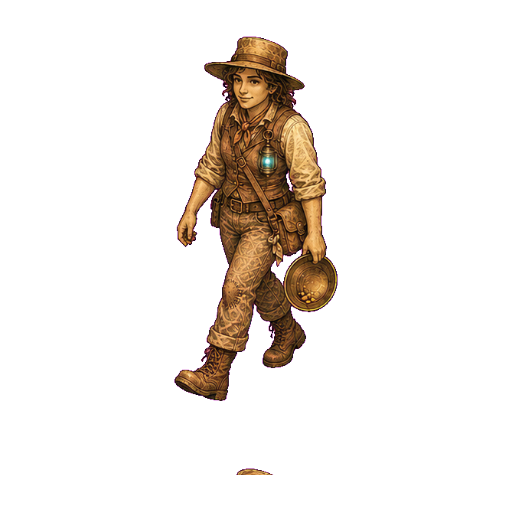
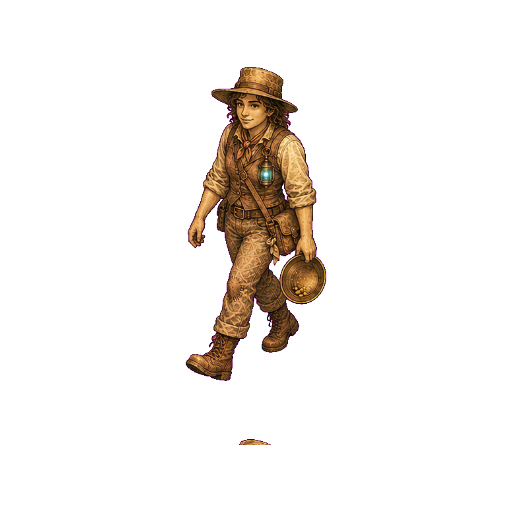
assets(run-001 wiring, s37): hero 8-way fully explicit (sw/e/nw + side idles, mirrors retired); jumper rotation wired dormant in SPEC order — stale cells-5-8 swap directive disproven by pixel inspection; portrait slots dormant; extractor --scale + rotation2 @0.66 cross-sheet height match; vp-02/vp-0

Changed region(s): [[0.3438, 0.0625, 0.6875, 0.7812], [0.4688, 0.9062, 0.5312, 0.9375], [0.4688, 0.8438, 0.5312, 0.875]]

diff --git a/e2e/vp-02-sprite-animation.spec.ts b/e2e/vp-02-sprite-animation.spec.ts
@@ -27,12 +27,12 @@ const rotationDirections = ['s', 'se', 'e', 'ne', 'n', 'nw', 'w', 'sw'] as const
 const rotationCases = [
   ['s', 0, 1, ['char-hero-sheet-rotation-r0c0.png', 'char-hero-sheet-rotation-r0c1.png'], false],
   ['se', 1, 1, ['char-hero-sheet-rotation-r0c2.png', 'char-hero-sheet-rotation-r0c3.png'], false],
-  ['e', 1, 0, ['char-hero-sheet-rotation-r1c0.png', 'char-hero-sheet-rotation-r1c1.png'], true],
+  ['e', 1, 0, ['char-hero-sheet-rotation2-r0c2.png', 'char-hero-sheet-rotation2-r0c3.png'], false],
   ['ne', 1, -1, ['char-hero-sheet-rotation-r1c2.png', 'char-hero-sheet-rotation-r1c3.png'], false],
   ['n', 0, -1, ['char-hero-sheet-rotation-r2c0.png', 'char-hero-sheet-rotation-r2c1.png'], false],
-  ['nw', -1, -1, ['char-hero-sheet-rotation-r1c2.png', 'char-hero-sheet-rotation-r1c3.png'], true],
+  ['nw', -1, -1, ['char-hero-sheet-rotation2-r1c0.png', 'char-hero-sheet-rotation2-r1c1.png'], false],
   ['w', -1, 0, ['char-hero-sheet-rotation-r1c0.png', 'char-hero-sheet-rotation-r1c1.png'], false],
-  ['sw', -1, 1, ['char-hero-sheet-rotation-r0c2.png', 'char-hero-sheet-rotation-r0c3.png'], true],
+  ['sw', -1, 1, ['char-hero-sheet-rotation2-r0c0.png', 'char-hero-sheet-rotation2-r0c1.png'], false],
 ] as const;
 
 function collectErrors(page: Page): ErrorBucket {
@@ -174,31 +174,35 @@ async function canvasCaptureAtHeroFrame(page: Page, direction: string, frameKey:
   };
 }
 
-function heroHorizontalAsymmetry(png: PNG): number {
+/**
+ * s37: mean abs RGB difference inside the hero crop window (window constants
+ * inherited from the retired heroHorizontalAsymmetry), optionally flipping b
+ * horizontally. Art-agnostic
+ * replacement for the flip-specific signed-asymmetry delta, which drowned in
+ * noise at the 390px viewport once east stopped being literal flipped-west
+ * pixels (explicit rotation2 art). Same-size captures only.
+ */
+function heroCropDifference(a: PNG, b: PNG, flipB = false): number {
   const crop = {
-    x: Math.round(png.width * 0.38),
-    y: Math.round(png.height * 0.52),
-    w: Math.round(png.width * 0.24),
-    h: Math.round(png.height * 0.2),
+    x: Math.round(a.width * 0.38),
+    y: Math.round(a.height * 0.52),
+    w: Math.round(a.width * 0.24),
+    h: Math.round(a.height * 0.2),
   };
-  let left = 0;
-  let right = 0;
-  const midX = crop.x + crop.w / 2;
+  let sum = 0;
+  let count = 0;
   for (let y = crop.y; y < crop.y + crop.h; y += 1) {
     for (let x = crop.x; x < crop.x + crop.w; x += 1) {
-      const index = (y * png.width + x) * 4;
-      const r = png.data[index] ?? 0;
-      const g = png.data[index + 1] ?? 0;
-      const b = png.data[index + 2] ?? 0;
-      const luma = 0.299 * r + 0.587 * g + 0.114 * b;
-      const saturation = Math.max(r, g, b) - Math.min(r, g, b);
-      const weight = Math.max(0, 150 - luma) + Math.max(0, saturation - 25) * 0.5;
-      if (weight <= 20) continue;
-      if (x < midX) left += weight;
-      else right += weight;
+      const ia = (y * a.width + x) * 4;
+      const bx = flipB ? crop.x + (crop.w - 1 - (x - crop.x)) : x;
+      const ib = (y * b.width + bx) * 4;
+      for (let c = 0; c < 3; c += 1) {
+        sum += Math.abs((a.data[ia + c] ?? 0) - (b.data[ib + c] ?? 0));
+        count += 1;
+      }
     }
   }
-  return (right - left) / Math.max(1, right + left);
+  return sum / Math.max(1, count) / 255;
 }
 
 async function trackHeroDirections(page: Page): Promise<void> {
@@ -509,7 +513,13 @@ test('hero walk frameKey alternates while each 8-way heading is held', async ({ 
   expect(errors.pageErrors).toEqual([]);
 });
 
-test('east heading uses west files with mirrored pixels', async ({ page }) => {
+// s37 run-001 rewiring: e/sw/nw are EXPLICIT rotation2 cells now (no hero mirrors).
+// This test used to prove the flipX pipeline by comparing mirrored-east against west
+// pixels. It now guards the inverse regression: east must render its OWN right-facing
+// art, unmirrored, and remain pixel-distinguishable from west. COVERAGE GAP (logged
+// reviews/run-001-contract-wiring.md): mirroredRuntimeFrame/flipX has no live consumer
+// until M2-04 activates jumper sw/nw mirrors — mirrored-pixel coverage returns there.
+test('east heading uses explicit rotation2 files with unmirrored pixels', async ({ page }) => {
   const errors = await openGame(page, 'vp-02-mirror-pixels');
   for (let attempt = 0; attempt < 2; attempt += 1) {
     await page.evaluate(() => {
@@ -527,7 +537,7 @@ test('east heading uses west files with mirrored pixels', async ({ page }) => {
     await page.evaluate(() => window.__GR_TEST__?.teleport(0, 0));
     await moveStick(page, 1, 0);
     await waitForHeroDirection(page, 'e', 2_000);
-    const east = await canvasCaptureAtHeroFrame(page, 'e', 'char-hero-sheet-rotation-r1c0.png').catch(() => null);
+    const east = await canvasCaptureAtHeroFrame(page, 'e', 'char-hero-sheet-rotation2-r0c2.png').catch(() => null);
     await releaseStick(page);
 
     if (attempt === 0 && (!west || !east)) {
@@ -538,9 +548,16 @@ test('east heading uses west files with mirrored pixels', async ({ page }) => {
     expect(east).not.toBeNull();
     expect(west!.snapshot.frameKey).toBe('char-hero-sheet-rotation-r1c0.png');
     expect(west!.snapshot.mirrored).toBe(false);
-    expect(east!.snapshot.frameKey).toBe('char-hero-sheet-rotation-r1c0.png');
-    expect(east!.snapshot.mirrored).toBe(true);
-    expect(heroHorizontalAsymmetry(east!.png) - heroHorizontalAsymmetry(west!.png)).toBeGreaterThan(0.004);
+    expect(east!.snapshot.frameKey).toBe('char-hero-sheet-rotation2-r0c2.png');
+    expect(east!.snapshot.mirrored).toBe(false);
+    // East is its own drawing now: it must differ from west directly AND from
+    // flipped-west (stale-mirror regression guard). frameKey/mirrored above are the
+    // contract truth; this is the renderer-level backstop.
+    const directDiff = heroCropDifference(east!.png, west!.png);
+    const flippedDiff = heroCropDifference(east!.png, west!.png, true);
+    console.log(`[mirror-pixels] heroCropDifference direct=${directDiff.toFixed(4)} flipped=${flippedDiff.toFixed(4)}`);
+    expect(directDiff).toBeGreaterThan(0.01);
+    expect(flippedDiff).toBeGreaterThan(0.01);
     break;
   }
   expect(errors.consoleErrors).toEqual([]);

diff --git a/e2e/vp-02b-rotation-resolver.spec.ts b/e2e/vp-02b-rotation-resolver.spec.ts
@@ -23,12 +23,12 @@ const shotDir = path.resolve('reviews/shots-008-rotation');
 const directions = [
   ['s', { x: 0, y: 1 }, ['char-hero-sheet-rotation-r0c0.png', 'char-hero-sheet-rotation-r0c1.png'], false],
   ['se', { x: 1, y: 1 }, ['char-hero-sheet-rotation-r0c2.png', 'char-hero-sheet-rotation-r0c3.png'], false],
-  ['e', { x: 1, y: 0 }, ['char-hero-sheet-rotation-r1c0.png', 'char-hero-sheet-rotation-r1c1.png'], true],
+  ['e', { x: 1, y: 0 }, ['char-hero-sheet-rotation2-r0c2.png', 'char-hero-sheet-rotation2-r0c3.png'], false],
   ['ne', { x: 1, y: -1 }, ['char-hero-sheet-rotation-r1c2.png', 'char-hero-sheet-rotation-r1c3.png'], false],
   ['n', { x: 0, y: -1 }, ['char-hero-sheet-rotation-r2c0.png', 'char-hero-sheet-rotation-r2c1.png'], false],
-  ['nw', { x: -1, y: -1 }, ['char-hero-sheet-rotation-r1c2.png', 'char-hero-sheet-rotation-r1c3.png'], true],
+  ['nw', { x: -1, y: -1 }, ['char-hero-sheet-rotation2-r1c0.png', 'char-hero-sheet-rotation2-r1c1.png'], false],
   ['w', { x: -1, y: 0 }, ['char-hero-sheet-rotation-r1c0.png', 'char-hero-sheet-rotation-r1c1.png'], false],
-  ['sw', { x: -1, y: 1 }, ['char-hero-sheet-rotation-r0c2.png', 'char-hero-sheet-rotation-r0c3.png'], true],
+  ['sw', { x: -1, y: 1 }, ['char-hero-sheet-rotation2-r0c0.png', 'char-hero-sheet-rotation2-r0c1.png'], false],
 ] as const;
 
 function collectErrors(page: Page): ErrorBucket {

diff --git a/STATUS.md b/STATUS.md
@@ -1,7 +1,8 @@
-Last updated: 2026-07-05T09:53Z s37 ACTIVE 2026-07-05T09:53Z — run-001 contract wiring lane OPEN (hero rotations2 extension + jumper rotation map w/ cells 5–8 swap + portrait-slot decision). s36 handoff is the next line; s37 handoff will replace both.
-Last updated: 2026-07-05T09:42Z s36 handoff, lock CLEARED — all three s35 next-fire items DONE. (A) F-022-1 corrective LANDED `35ed9c2` (direct, review-fix authority ~9 lines, e2e-only): blast-TTK probe de-raced — pin `waves.waveInterval` 12→40 at target−2 (before JIT wave planning, robust to planning-race ordering), `waitForStableWave(target, 30, 60s)`, restore 12 after each measure, test timeout 90s. Gates: tsc clean, spec collects both projects, in-VM mechanism probe PASS (detect at 39.99 sim-s window; 6 protocol RTs consume only 3.4 sim-s; `reviews/shots-m2-07/f-022-1-mechanism-probe.json`). Full TTK run now spans ~50s BY DESIGN = over the 43s VM call wall → blast-ttk numbers stay Mac-owed, on a test that will no longer lie. (B) 017 case C DONE `348492e`: run-001's 6 raws processed (hero rotation2 4x2→8 cells, jumper rotation 4x3→12 cells, 4 bld portraits @1024; alpha-structure probe clean; LEDGER table rows + queue entry 7) — CONTRACT WIRING PENDING: hero `rotations` extension, jumper map **with the §B cells 5–8 side-pair swap**, build-menu portrait slots. (C) s9ab refresh: ALL merged lane branches (perf/m3/m4/polish) reset to main tip (ancestry confirmed, all lane queues empty; ref-only op). NEW ENV FINDINGS: `.git/worktrees/` registrations GONE — worktrees/lane-* are orphaned checkouts, in-worktree git fails VM-side (`branch -f` substituted; runner v2 must re-register worktrees on the Mac before executing); `~/.cache/ms-playwright` symlink vanished again (s25 pattern) → set `PLAYWRIGHT_BROWSERS_PATH=/tmp/pw-browsers` per call; `~/locallibs` wiped → rebuild xdamage stub from `scripts/xdamage-stub.c` into /tmp; bare `/tmp/<file>` writes still Permission-denied (use /tmp/gr-sNN/); playwright launch needs `channel:'chromium'` (headless_shell SIGSEGVs, per playwright.config comment). Robin owes UNCHANGED: (1) Mac full regression + blast-ttk.json numbers (now trustworthy), (2) runner-v2 start + worktree re-registration, (3) turret-feel playtest (2.75x DPS swing). Queue empty; next fire: run-001 contract wiring (orchestrator asset-pipeline lane), then batch-005 prompts per §7 ordering; react to Mac evidence when it lands.
+Last updated: 2026-07-05T10:05Z s37 handoff, lock CLEARED — **run-001 CONTRACT WIRING DONE (orchestrator lane, direct authority: contracts + e2e tables + pipeline script only; no src).** char.hero 8-way is now FULLY EXPLICIT art: sw/e/nw wired from rotation2, w gains its idle cell, mirror table retired to {} (Robin no-mirror call; SpriteAnimator prefers explicit — vp-02b directions 8/8 both projects on the new cells, mirrored:false). **CAUGHT AND CORRECTED: the s36/LEDGER "jumper cells 5–8 side-pair swap" directive was STALE** — it transcribed the REJECTED first-pass QA; the accepted retry sheet is in SPEC order (verified by pixel inspection of all four side cells + run-file retry verdict; LEDGER row fixed, lesson logged: wire from pixels, not ledger prose). Jumper rotations block wired dormant in spec order (dormancy PROVEN: vp-02b jumper-shape green) with SCALE DEBT gating M2-04 activation (figures 296–331px vs side-sheet 409–439). **NEW PIPELINE LAW + TOOL: cross-sheet figure heights must match at direction seams** — extractor auto-fit normalizes per-sheet (86% of cell) so different grids diverge; added `--scale` override to extract-alpha.mjs and reprocessed rotation2 @0.66 → SW 379 vs S 380, E 377 vs W 377 (NW 331 inside the ruled-GAIT NE spread; watch). Portrait slots wired dormant (bld.portrait.*, find-by-slot = inert). e2e: vp-02/vp-02b direction tables updated (e/sw/nw → rotation2, mirrored:false); "east = mirrored west pixels" test REWRITTEN (flip-specific asymmetry heuristic drowned at 390px on real art, measured −0.0013 vs +0.004 required) → heroCropDifference direct+flipped guard (headroom 2.5–5x, values logged in-test). Gates: tsc/build clean; vp-02b 5/5 desktop + 4/4 mobile; vp-02 affected trio green both projects; boot probe desktop+390 ZERO console/page errors; visual review via 8-direction contact strip (no size pop, no double-flip). Evidence: `reviews/run-001-contract-wiring.md` + `reviews/shots-run-001-wiring/`. HONEST CAVEATS: side idles (e/w) contract-wired but RUNTIME-DORMANT (idleDirectionFor hard-snaps s/n — batch-005R2's "retires W-idle fallback" needs a small resolver rider, src, queue it with M2-04 or next polish lane); flipX now has ZERO live consumers (coverage returns when jumper mirrors activate). Robin owes UNCHANGED: (1) Mac full regression + blast-ttk.json numbers, (2) runner-v2 start + worktree re-registration, (3) turret-feel playtest. Next fire: batch-005 prompts (icons tranche 2 + props + flourishes, per §7 ordering — LEDGER queue 6, unwritten since batch-004); then react to Mac evidence. — all three s35 next-fire items DONE. (A) F-022-1 corrective LANDED `35ed9c2` (direct, review-fix authority ~9 lines, e2e-only): blast-TTK probe de-raced — pin `waves.waveInterval` 12→40 at target−2 (before JIT wave planning, robust to planning-race ordering), `waitForStableWave(target, 30, 60s)`, restore 12 after each measure, test timeout 90s. Gates: tsc clean, spec collects both projects, in-VM mechanism probe PASS (detect at 39.99 sim-s window; 6 protocol RTs consume only 3.4 sim-s; `reviews/shots-m2-07/f-022-1-mechanism-probe.json`). Full TTK run now spans ~50s BY DESIGN = over the 43s VM call wall → blast-ttk numbers stay Mac-owed, on a test that will no longer lie. (B) 017 case C DONE `348492e`: run-001's 6 raws processed (hero rotation2 4x2→8 cells, jumper rotation 4x3→12 cells, 4 bld portraits @1024; alpha-structure probe clean; LEDGER table rows + queue entry 7) — CONTRACT WIRING PENDING: hero `rotations` extension, jumper map **with the §B cells 5–8 side-pair swap**, build-menu portrait slots. (C) s9ab refresh: ALL merged lane branches (perf/m3/m4/polish) reset to main tip (ancestry confirmed, all lane queues empty; ref-only op). NEW ENV FINDINGS: `.git/worktrees/` registrations GONE — worktrees/lane-* are orphaned checkouts, in-worktree git fails VM-side (`branch -f` substituted; runner v2 must re-register worktrees on the Mac before executing); `~/.cache/ms-playwright` symlink vanished again (s25 pattern) → set `PLAYWRIGHT_BROWSERS_PATH=/tmp/pw-browsers` per call; `~/locallibs` wiped → rebuild xdamage stub from `scripts/xdamage-stub.c` into /tmp; bare `/tmp/<file>` writes still Permission-denied (use /tmp/gr-sNN/); playwright launch needs `channel:'chromium'` (headless_shell SIGSEGVs, per playwright.config comment). Robin owes UNCHANGED: (1) Mac full regression + blast-ttk.json numbers (now trustworthy), (2) runner-v2 start + worktree re-registration, (3) turret-feel playtest (2.75x DPS swing). Queue empty; next fire: run-001 contract wiring (orchestrator asset-pipeline lane), then batch-005 prompts per §7 ordering; react to Mac evidence when it lands.
 
 ## Where we are
+- **s37 (this handoff, scheduled fire ~30min): run-001 contract wiring shipped end-to-end.** Hero: rotation2's 8 cells live behind explicit sw/e/nw+idles, mirrors retired, cross-sheet scale matched via new extractor `--scale` (law: match figure heights at direction seams; auto-fit only guarantees within-sheet). Jumper: full rotation block wired dormant in SPEC order — the handed-down cells-5–8 swap was a stale note from the rejected first pass; caught by pixel-verifying before wiring (four side cells inspected). Portraits: dormant slots. e2e direction tables updated; mirror-pixels test rewritten art-agnostic after the flip-era heuristic failed honestly at 390px. All gates green (tsc/build, vp-02b 5/5+4/4, vp-02 trio both projects, boot probes zero-error). Debts logged loudly: jumper scale before M2-04 activation, flipX coverage gap until then, resolver rider for side idles, batch-005 prompts still unwritten. `reviews/run-001-contract-wiring.md`.
+- **s36 handoff (line-1 archive):** 2026-07-05T09:42Z s36 handoff, lock CLEARED — all three s35 next-fire items DONE. (A) F-022-1 corrective LANDED `35ed9c2`. (B) 017 case C DONE `348492e`: run-001's 6 raws processed — contract wiring left PENDING with a **cells 5–8 swap directive that s37 disproved** (kept here as written; see s37 bullet). (C) s9ab refresh: all merged lane branches reset to main tip; worktree registrations GONE (Mac re-registration owed). ENV: pw-browsers path + xdamage stub recipes rebuilt. Robin owes carried: Mac regression + blast-ttk, runner-v2 start, turret playtest.
 - **s36 (this handoff, scheduled fire ~40min): the s35 triad discharged — F-022-1 corrective `35ed9c2`, 017 case C `348492e`, s9ab lane refresh ×4.** F-022-1 done DIRECTLY (not batched to codex: ~9 e2e-only lines within review-fix authority; runner v2 isn't started, so a queued corrective would have sat dead while blocking Robin's Mac numbers). Mechanism verified in-VM against the exact failure mode (6 RTs @ ts12 consume 3.4 sim-s of a 39.99 sim-s pinned window vs the old 5-RTs-overrun-10-sim-s race); the full test itself is Mac-owed by design (~50s > 43s wall). Case C evidence: keyed 74.8%/75.8% sheets, 4 gray-key portraits 55–80% keyed, alpha corners all 0; signal-turret carries run-001's canon retry note (§9.2 no-barrel). Lane refresh was ref-only (`branch -f`) because ALL worktree registrations are gone from `.git/worktrees/` — flagged to Robin for runner v2. NOT done, honestly: no in-game visual review of the 6 processed assets (nothing consumes them yet — that's integration-time work per LEDGER process notes); jumper/hero contract JSON untouched (next fire, needs the s21 precedent + batch-005R2/R3 cell maps read carefully, incl. the cells 5–8 swap).
 - **s35 handoff (line-1 archive):** 2026-07-05T08:52Z s35 handoff, lock CLEARED — tasks/022 m2-07 base-self-hold INTEGRATED 6687b5d: SELF-HOLD probe PASS in-VM (11/11 standing, stockpile alive, 4 wreckers/8 hits absorbed, 0 errors; the m2-07 gate per Robin ruling) + tsc/build clean + 4 knob canaries green + shots desktop/390. TTK probe env-raced (F-022-1, test-side corrective owed) — Robin owes Mac full regression + blast-ttk numbers + runner-v2 start + turret-feel playtest. ENV LAWS v3 (BINDING, supersede s34 background lesson): NO bg survival at all; /tmp/gr build tree; GIT_CONFIG_GLOBAL=/tmp/gitconfig. Queue empty; next: F-022-1 corrective batch, 017 art case C, lane/perf refresh per s9ab.
 - **s35 (this handoff, scheduled fire ~35min): tasks/022 m2-07 base-self-hold INTEGRATED `6687b5d` — runner v1's on-main drop reviewed per scope and landed.** Scope: Balance durability curve (palisade perWave 4→8 cap 3x; NEW turret/sentry_beacon entries 8/6), turret thin-before-contact (dmg 26→52, rate 0.8→1.1, range 12→16 ≈2.75x DPS), blast.dmgPerWave 0.02→0.28, BuildSystem maxHpForPlacement generalized, Game.confirmBuild diagnostics publish (4 lines, accepted beyond firewall), NEW e2e self-hold+TTK probes. Evidence: `reviews/m2-07-base-self-hold.md` + `reviews/shots-m2-07/` (self-hold-report.json = 11/11+stockpile+8 hits, 0 console errors; desktop base shot, 390 boot shot). Canaries green: m2-05b wave-12-palisade/repair-cost 14.9s, m2-06 friendly-fire 10.0s, m2-06 turret-LOS 11.1s, m2-07b six-blast-stacks 10.0s (no spec hard-codes knob values — verified by grep). FINDINGS: **F-022-1** TTK test races on slow envs (minWindow=10 sim-s = 0.83 wall-s at ts12 for ~5 RTs; 3/3 deterministic fails at start.wave; fix test-side: minWindow≥30 + pin waves.waveInterval≥40 during measure — batch into next codex task). **F-022-2** blast knob set WITHOUT prior data (task said data-first); accepted because the committed probe is the instrument; Mac run supplies numbers, ratio≤2 gates it. Watch: 11/11 standing may be GENEROUS — if playtest says toothless, lever down turret dmg 52→44 first, not HP. **ENV LAWS v3 (BINDING, this VM image):** (1) background procs do NOT survive bash-call teardown AT ALL — setsid+nohup+disown killed within seconds of call end (tested: sleep 300 + live playwright both reaped; SUPERSEDES s34 lesson). Every workload ≤43s foreground per call; suites = single-test --grep chunks; FULL regression is Mac-only on this image. (2) home volume 0B free (phantom worse than s34) — build tree /tmp/gr (rootfs ~3G), npm cache /tmp/npm-cache, GIT_CONFIG_GLOBAL=/tmp/gitconfig (home gitconfig writes fail SILENTLY). (3) playwright wipes test-results/ each run — copy evidence out immediately. (4) stale .git/HEAD.lock on mount blocks commits — allow_cowork_file_delete then rm (resume step 1 confirmed). **Robin owes:** (1) Mac `npx playwright test` full both projects, commit evidence incl. test-results/m2-07-base-self-hold/blast-ttk.json numbers; (2) start scripts/lane-runner-v2.sh (v1 RETIRED — it made this on-main drop); (3) turret-feel playtest (2.75x DPS swing). Next fire: (A) F-022-1 corrective + any Mac-evidence follow-ups, (B) 017 art case C (9 raws in assets/raw), (C) lane/perf branch refresh per s9ab.

diff --git a/assets/LEDGER.md b/assets/LEDGER.md
@@ -27,9 +27,9 @@ Pipeline v1: slot defined → prompt written (batch) → generated (Robin/ChatGP
 | char.claim_jumper SHEET side 2x2 (supersedes walk pair) | 1-frame clip = current art (VP-02 code) | batch-003 | ✓ 2026-07-04 (raw ✓ s11) | ✓ s12, REPROCESSED s15 (interior spill-clear) | ✓ 2026-07-04 (VP-02 landed a674606; gates recorded s15) |
 | char.hero SHEETS front/back/side-actions 3x2 | side+mirror fallback chain (VP-02 code) | batch-004 | ✓ 2026-07-04 s9d | ✓ 2026-07-04 s15 (18 cells + frames.json) | ✓ 2026-07-04 s15 — front/back LIVE (probe: frameKey front-r0c1/back-r0c2); pan/build/aim clips contract-ready, unwired |
 | char.claim_jumper SHEETS front/back 3x2 | side+mirror fallback chain (VP-02 code) | batch-004 | ✓ 2026-07-04 s9d | ✓ 2026-07-04 s15 (12 cells + frames.json) | contract ✓ s15, DORMANT until enemy code sends orientations/grab/flee (M2-04) |
-| char.hero SHEET walk-ROTATION2 4x2 (SW/W-side/NW walk pairs + side idles) | existing rotations block + mirror chain | run-001 §A (batch-005R2) | ✓ 2026-07-05 run-001 (8/8 cells QA pass) | ✓ 2026-07-05 s36 (8 cells @512 + frames.json, keyed 74.8%) | contract extension PENDING (extend char.hero `rotations`; resolver already live per VP-02b) |
-| char.claim_jumper SHEET full-ROTATION 4x3 | side+mirror fallback chain (VP-02 code) | run-001 §B (batch-005R3) | ✓ 2026-07-05 run-001 — **cells 5–8 side pairs REVERSED, swap in contract map** | ✓ 2026-07-05 s36 (12 cells @512 + frames.json, keyed 75.8%) | contract PENDING; DORMANT until M2-04 orientations |
-| bld.portrait ×4 (palisade, sluice-works, stockpile-yard, signal-turret) | (none — build menu shows name text) | run-001 §C (batch-005B bonus) | ✓ 2026-07-05 run-001 (signal-turret 1 retry: no-barrel mast, canon §9.2) | ✓ 2026-07-05 s36 (1024 cutouts, corners alpha-0 verified) | slots NOT in contracts yet — wire to build-menu UI when that slice lands |
+| char.hero SHEET walk-ROTATION2 4x2 (SW/W-side/NW walk pairs + side idles) | existing rotations block + mirror chain | run-001 §A (batch-005R2) | ✓ 2026-07-05 run-001 (8/8 cells QA pass) | ✓ 2026-07-05 s36 (8 cells @512, keyed 74.8%); REPROCESSED s37 `--scale 0.66` (auto-fit had figures at 440px vs old sheet ~370 — cross-sheet size pop) | ✓ 2026-07-05 s37 — sw/e/nw EXPLICIT + w idle wired, hero mirror table retired to {}; heights matched (SW 379 vs S 380, E 377 vs W 377); vp-02/vp-02b green both projects, boot probe clean; side idles contract-wired but RUNTIME-DORMANT until a resolver rider extends idleDirectionFor (`reviews/run-001-contract-wiring.md`) |
+| char.claim_jumper SHEET full-ROTATION 4x3 | side+mirror fallback chain (VP-02 code) | run-001 §B (batch-005R3) | ✓ 2026-07-05 run-001 — first pass REJECTED (cells 5–8 pairs reversed); accepted retry is in SPEC ORDER (s37 pixel-verified r1c0/r1c1=E, r1c2/r1c3=W — the earlier "swap in contract map" note was stale, from the rejected pass) | ✓ 2026-07-05 s36 (12 cells @512 + frames.json, keyed 75.8%) | ✓ 2026-07-05 s37 contract `rotations` block wired in spec order (sw/nw mirror se/ne), RUNTIME-DORMANT until M2-04 8-way (dormancy proven by vp-02b jumper-shape test). **SCALE DEBT before activation:** figures 296–331px vs side-sheet walk 409–439 — regenerate at 2-row cell height or add runtime compensation |
+| bld.portrait ×4 (palisade, sluice-works, stockpile-yard, signal-turret) | (none — build menu shows name text) | run-001 §C (batch-005B bonus) | ✓ 2026-07-05 run-001 (signal-turret 1 retry: no-barrel mast, canon §9.2) | ✓ 2026-07-05 s36 (1024 cutouts, corners alpha-0 verified) | ✓ 2026-07-05 s37 slots wired as `bld.portrait.{palisade,sluice,stockpile,turret}` in m1-core contract, DORMANT (find-by-slot consumers = inert, no eager loads); UI wiring lands with the build-menu portrait slice |
 | ui.upgrade.icon.{panning,prospecting,beacon,gold,mend} | (none — clean parchment card) | batch-004 (queued) | — | — | — |
 | prop.rock / prop.stump / prop.claim_post | primitives | batch-004 (queued) | — | — | — |
 | vfx.bolt | emissive sphere + tracer | stays procedural | n/a | n/a | n/a |
@@ -43,7 +43,7 @@ Pipeline v1: slot defined → prompt written (batch) → generated (Robin/ChatGP
 4. **batch-004** (`requests/batch-004.md`) — direction/action sheet matrix (5 sheets). Status: **PROCESSED + INTEGRATED 2026-07-04 (s15).** 30 cells; extractor gained `--interior-key` spill-clear + all-pixel despill (all 5 sheets carried interior magenta spill; old side sheets reprocessed too — they shipped with it). Contract: hero front/back LIVE, action clips + jumper front/back contract-ready/dormant. One logged deviation (hero idle stays old-sheet cell). Evidence: `reviews/s15-batch-004-processing.md`, `reviews/shots-s15-batch-004/`. **Icons tranche 2 (panning, prospecting, beacon, gold, mend) + props (rock/stump/claim_post) were NOT in the generation run — they move to batch-005 prompts (unwritten).**
 5. **batch-005R** (`requests/batch-005-rotation.md`) — hero walk-ROTATION pilot sheet (Robin directive: per-action full-direction sheets; 4x3, 12 cells: S/SE/W-side/NE/N walk pairs + S/N idles). Status: **PROCESSED + CONTRACT-EXTENDED (dormant) 2026-07-04 (s21).** Generated+QA'd s9e (side pair faces LEFT → contract mirror table stores `w`, mirrors `e`←`w`; SE/NE as specced). Extraction `--key ff00ff --grid 4x3`: 12/12 cells @512, interior spill auto-cleared (13.5k px, the predicted lantern glints). `rotations` block added to `characters.v2.json` under char.hero — SpriteAnimator ignores it until the 8-way resolver rider lands (velocity-angle → direction, ~10° hysteresis; spec in the batch file). **Scale finding: bbox-height spread 14.6% (>8% target), attributed to stride-pose variance not scale drift (one shared extractor scale; visual uniform) — resolver-lane gameplay-zoom gate must watch W/NE walk pairs for scale pulsing, regenerate if it breathes.** Evidence: `reviews/s21-rotation-processing.md`, `reviews/shots-s21-rotation/`. **Jumper rotation sheet stays UNGENERATED until the pilot passes at gameplay zoom under the resolver.** → **s23 UPDATE: pilot PASSED** — VP-02b resolver integrated, scale-pulsing gate ruled GAIT on the W/NE pairs (`reviews/vp-02b-rotation-resolver.md`); the jumper rotation sheet is now QUEUEABLE (fold into batch-005 prompts or a batch-006, priority above decoration per §7 ordering).
 6. **batch-005 (queued, prompts unwritten)** — icons tranche 2 + props (moved from the batch-004 plan) + death/level-up flourishes.
-7. **codex-art-run-001** (`requests/codex-art-run-001.md`, task 017 pilot — Codex built-in `image_gen`, NOT the ChatGPT-web path) — batch-005R2 hero rotation completion (4x2) + batch-005R3 jumper full rotation (4x3) + batch-005B building portraits (4). Status: **PROCESSED 2026-07-05 (s36)** — 8+12 cells + 4 cutouts via extract-alpha (sheets `--key ff00ff --grid`, portraits default gray key; alpha-structure probe: all corners 0, opaque 12–45%). Generation QA in the run file (signal-turret needed 1 canon retry — barrel-like resonator rejected per §9.2). **Integration PENDING: hero rotations-block extension + jumper contract map (with the §B cells 5–8 side-pair swap) + build-menu portrait slots.** Run log notes cell-level pass verdicts per sheet; no limit events — pilot viability point for moving art generation off Robin's hands.
+7. **codex-art-run-001** (`requests/codex-art-run-001.md`, task 017 pilot — Codex built-in `image_gen`, NOT the ChatGPT-web path) — batch-005R2 hero rotation completion (4x2) + batch-005R3 jumper full rotation (4x3) + batch-005B building portraits (4). Status: **PROCESSED 2026-07-05 (s36)** — 8+12 cells + 4 cutouts via extract-alpha (sheets `--key ff00ff --grid`, portraits default gray key; alpha-structure probe: all corners 0, opaque 12–45%). Generation QA in the run file (signal-turret needed 1 canon retry — barrel-like resonator rejected per §9.2). ~~Integration PENDING~~ → **INTEGRATED 2026-07-05 (s37)**: hero rotations extension LIVE (explicit sw/e/nw + side idles; rotation2 reprocessed `--scale 0.66` for cross-sheet height match), jumper rotations block wired dormant **in SPEC order — the "§B cells 5–8 swap" directive was stale** (rejected-first-pass note; retry sheet verified in-order by pixel inspection), portrait slots wired dormant. Evidence: `reviews/run-001-contract-wiring.md` + `reviews/shots-run-001-wiring/`. Run log notes cell-level pass verdicts per sheet; no limit events — pilot viability point for moving art generation off Robin's hands.
 
 ## Process notes
 

diff --git a/reviews/run-001-contract-wiring.md b/reviews/run-001-contract-wiring.md
@@ -1,0 +1,32 @@
+# Review — run-001 contract wiring (s37, orchestrator asset-pipeline lane)
+
+**Scope:** wire run-001's processed art into layer contracts. Hero rotation2 (batch-005R2 §A), jumper full rotation (batch-005R3 §B), building portraits (batch-005B §C). Plus the e2e direction tables that encode the contract, one extractor flag, and one reprocess. No src/ changes.
+
+**Files:** `assets/layer-contracts/characters.v2.json`, `assets/layer-contracts/m1-core.layer-contract.v1.json`, `e2e/vp-02b-rotation-resolver.spec.ts` (3 table rows), `e2e/vp-02-sprite-animation.spec.ts` (3 table rows + mirror-pixels test rewrite), `scripts/extract-alpha.mjs` (`--scale` override), `assets/processed/char-hero-sheet-rotation2-*` (reprocessed @0.66).
+
+## What was wired
+
+- **char.hero `rotations`**: explicit `sw`/`e`/`nw` blocks from rotation2 cells (sw=r0c0/r0c1, e=r0c2/r0c3+idle r1c2, nw=r1c0/r1c1); `w` gains idle cell r1c3. Mirror table retired to `{}` — all 8 directions explicit (Robin call: no mirrors for the asymmetric hero). SpriteAnimator prefers explicit blocks, so behavior change is exactly the designed one: e/sw/nw render their own right/left-correct art, `mirrored:false`.
+- **char.claim_jumper `rotations`** (NEW, runtime-dormant): 6 explicit directions + sw/nw mirrored from se/ne. **Wired in SPEC order — the LEDGER's "cells 5–8 reversed, swap in contract map" directive was STALE** (see F-s37-1).
+- **bld.portrait.{palisade,sluice,stockpile,turret}**: dormant slots in m1-core contract (Terrain-style consumers do find-by-slot, so entries are inert; no eager loads). UI wiring belongs to the build-menu portrait slice.
+
+## Findings
+
+- **F-s37-1 (stale LEDGER note, corrected):** LEDGER row 31 + the s36 handoff ordered a cells 5–8 side-pair swap. That note transcribed the run file's **first-pass** verdict; the first pass was REJECTED and regenerated. The accepted retry sheet is in spec order — confirmed two ways: run-001 retry QA cell verdicts, and s37 pixel inspection of all four side cells (r1c0/r1c1 face RIGHT=e, r1c2/r1c3 face LEFT=w). Wired accordingly, no swap. **Lesson (pipeline law): wire from pixels, not from ledger prose — inspect cells before writing contract maps.**
+- **F-s37-2 (cross-sheet scale law + fix):** extractor grid mode normalizes per-sheet (largest bbox → 86% of cell), so sheets with different grid layouts normalize differently. rotation2 (4x2, 627px-tall source cells) came out with 437–440px figures vs the s21 sheet's 339–397px — a +16–29% size pop at direction changes. Added `--scale F` absolute override to `extract-alpha.mjs` (still capped at 1, never upscales; errors if content would exceed the cell) and reprocessed rotation2 at **0.66**: SW 379 vs S 380, E 377 vs W 377 (r1c0). NW pair lands 331/319 vs N 361 — inside the NE-pair gait spread (352–397) that s23 ruled acceptable; watch at gameplay zoom. **Jumper rotation sheet has the same law violated in the other direction** (figures 296–331 vs side-sheet 409–439) and its source cells (313x418) cap native size — upscaling refused (linework). Logged as SCALE DEBT in the contract notes: regenerate at 2-row cell height or add runtime scale compensation BEFORE M2-04 activation.
+- **F-s37-3 (coverage gap, deliberate):** with hero fully explicit and jumper mirrors dormant, `mirroredRuntimeFrame`/flipX has **zero live consumers**. The old "east = mirrored west pixels" test was rewritten to guard the inverse (east renders its OWN art, unmirrored, pixel-distinct from west both directly and flip-compared). Mirrored-pixel coverage must return when M2-04 activates jumper sw/nw. The old signed-asymmetry heuristic was also flip-specific and drowned at 390px on real art (measured −0.0013 vs required +0.004) — replaced with `heroCropDifference` (mean abs RGB in the hero crop, direct + flipped): desktop 0.0317/0.0532, mobile 0.0259/0.0251 vs threshold 0.01.
+- **F-s37-4 (side idles dormant):** batch-005R2 promised "retires W-idle fallback", but `idleDirectionFor` + SpriteAnimator's idle remap hard-snap idle to s/n. The e/w idle cells are contract-wired and inert until a resolver rider (src change) lands — candidate small task alongside M2-04 or the next polish lane. Not silently claimed as live.
+- **F-s37-5 (watch):** rotation2 r0c2 raw carries a faint disconnected fragment below the figure (neighbor-cell bleed). Invisible at gameplay zoom in the 8-direction contact strip; revisit only if it surfaces.
+
+## Evidence (all on the s37 sandbox tree, chromium channel, single-test chunks per ENV LAWS)
+
+- `npx tsc --noEmit` clean ×3 (post-wiring, post-test-rewrite, post-cleanup); `vite build` OK.
+- vp-02b desktop 5/5: directions 19.4s · hysteresis+idle 31.2s · action-clips+jumper-shape 7.9s · scale-pulse shots 37.0s. Mobile 4/4: directions+action 30.5s · hysteresis+idle 36.2s (shots test is the desktop capture artifact by design).
+- vp-02 affected tests, both projects: stride-cells 18.7s/20.4s · frameKey-alternates 27.8s/30.2s · mirror-pixels (rewritten) 13.5s/16.6s.
+- **Jumper dormancy proven:** "jumper diagnostics stay old shape" green on both projects with the new rotations block present.
+- Boot probe (built preview, `?debug&nowaves`): desktop + 390, **zero console errors, zero page errors**, hero loaded — `reviews/shots-run-001-wiring/boot-probe.json`, `boot-desktop.png`, `boot-390.png`.
+- Visual: `reviews/shots-run-001-wiring/8-direction-contact-strip.png` — all 8 headings at gameplay zoom, correct facings, no cross-sheet size pop, no double-flip.
+
+## Verdict
+
+PASS — hero 8-way is now fully explicit art and live; jumper rotation + portraits are contract-ready and provably dormant. Debts logged: jumper scale before M2-04, flipX coverage at M2-04, resolver rider for side idles, batch-005 prompts still unwritten.
